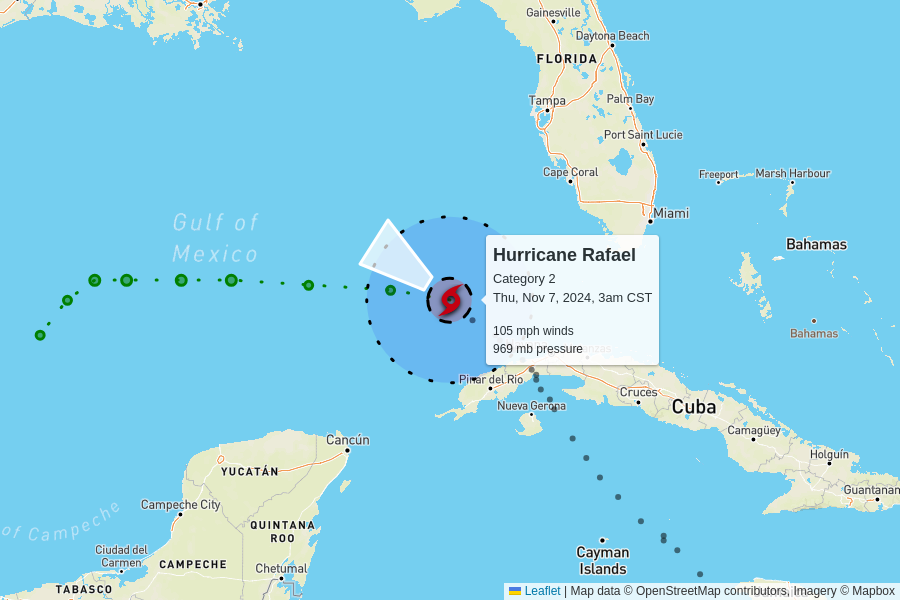
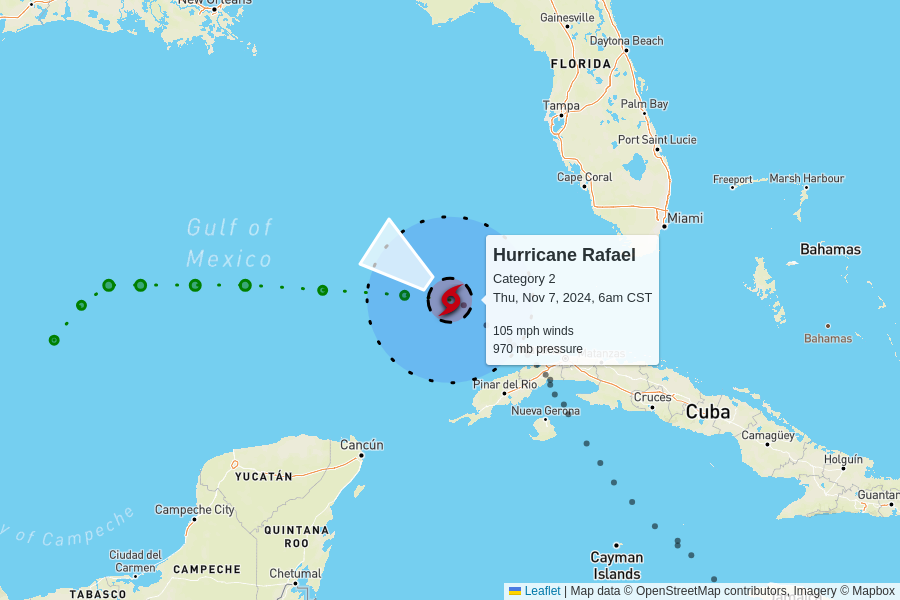
automatic update

diff --git a/docs/index.html b/docs/index.html
@@ -102,7 +102,7 @@
         <td colspan="6" class="storm category-2" >
           <h2>
             Hurricane Rafael - Category 2
-            <p class="updated">last updated <span data-time>2024-11-07T09:00:00.000Z</span></p>
+            <p class="updated">last updated <span data-time>2024-11-07T12:00:00.000Z</span></p>
           </h2>
         </td>
       </tr>
@@ -118,9 +118,9 @@
       <tr>
         <td class="spacer"></td>
         <td>105 mph<br>0 mph since last update</td>
-        <td>969 mb<br>0 mb since last update</td>
+        <td>970 mb<br>+1 mb since last update</td>
         <td>
-          12 mph to the northwest
+          9 mph to the northwest
           <br/>
           <span style="display: inline-block; font-size: 1.5em; transform: rotate(305deg);">↑</span>
         </td>
